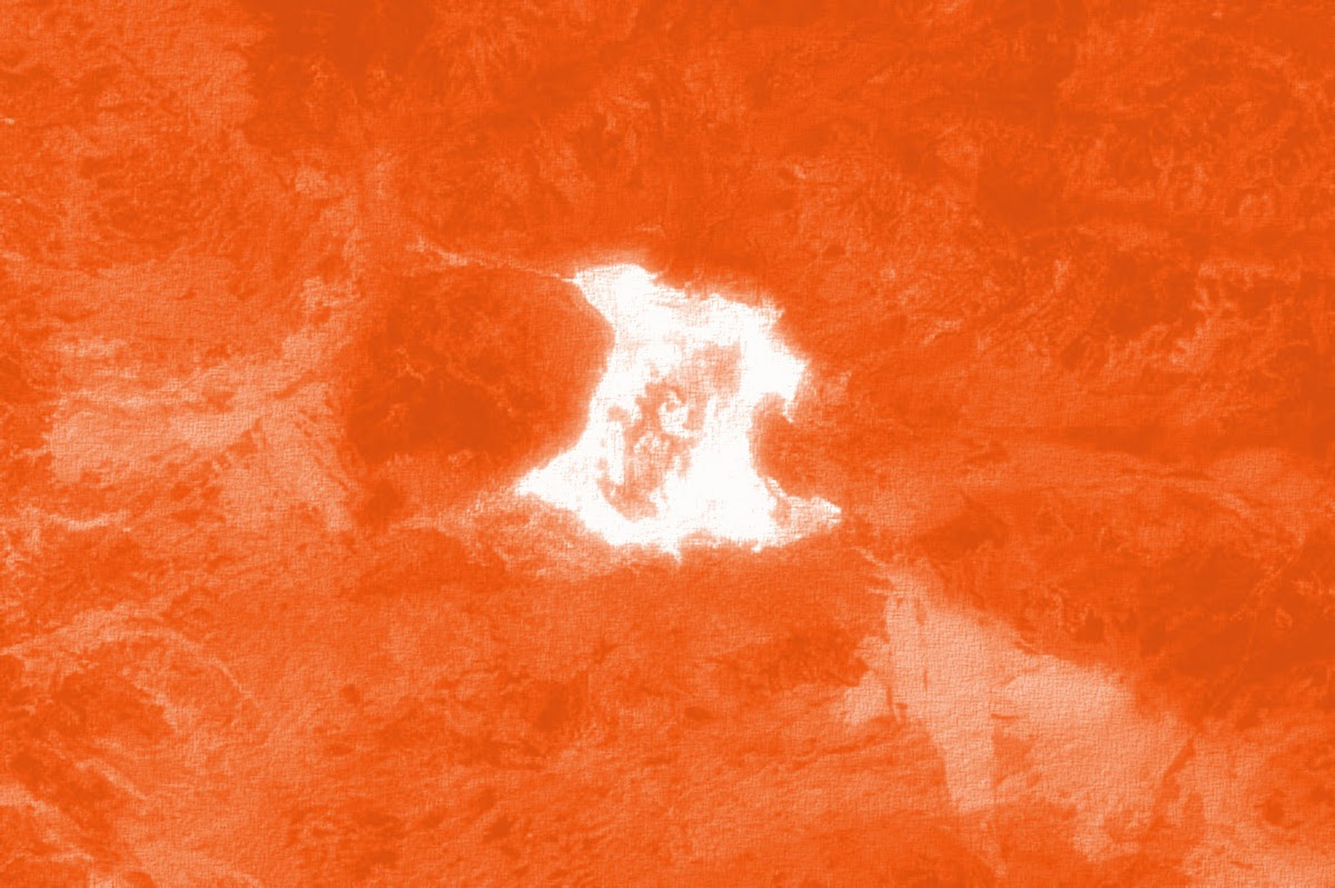
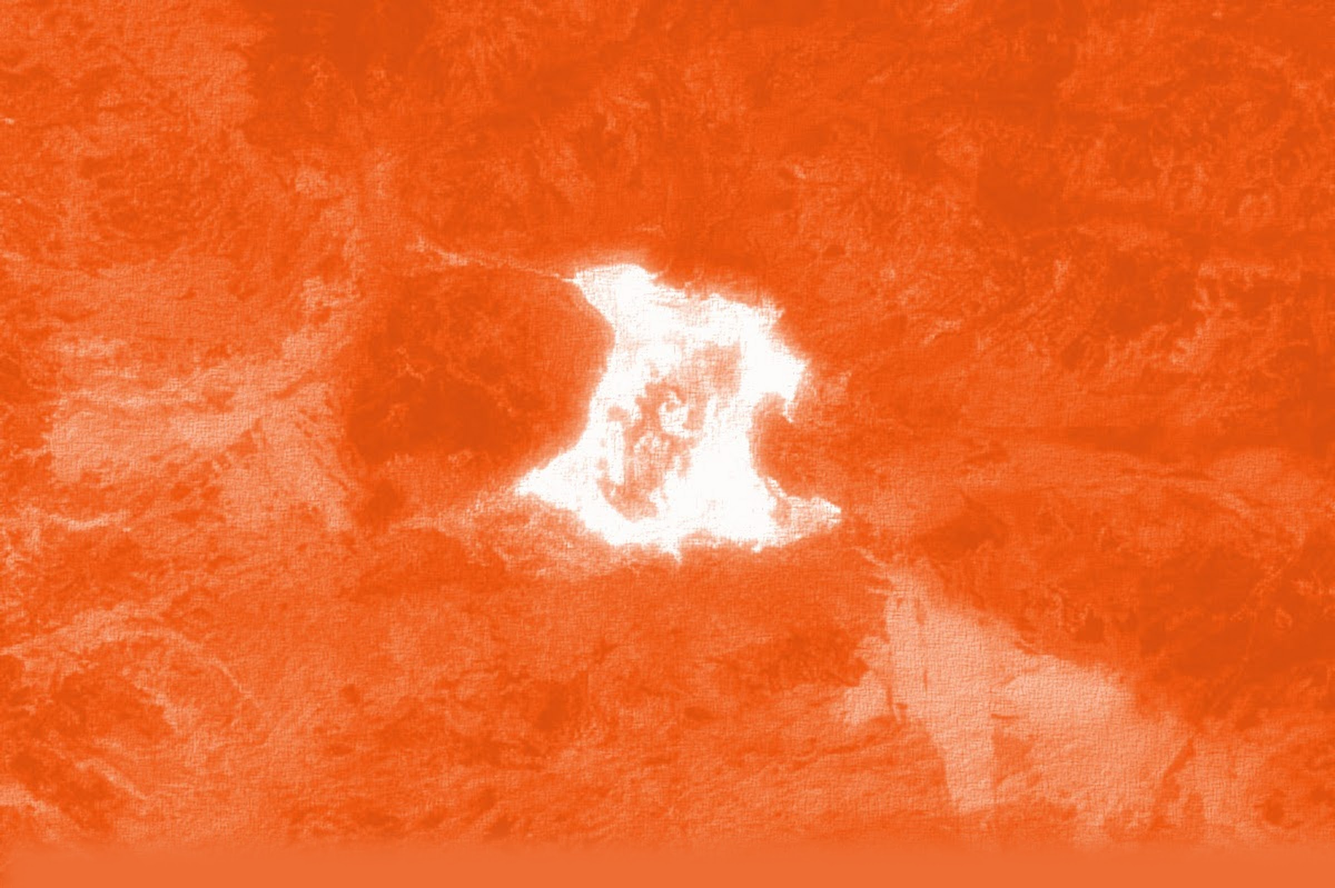
background-image

Changed region(s): [[0.2188, 0.9506, 1.0, 1.0], [0.0, 0.9506, 0.1875, 1.0]]

diff --git a/site/css/framlin.css b/site/css/framlin.css
@@ -1,6 +1,7 @@
 body, footer nav{
-	background-color:#ffefbf;
+	background-color:#ee6d34;
     background-image: url("../images/lake-baker-like-2400x14nn.jpg");
+    background-repeat: no-repeat;
     overflow: scroll;
 }
 /* ------  header -------- */
